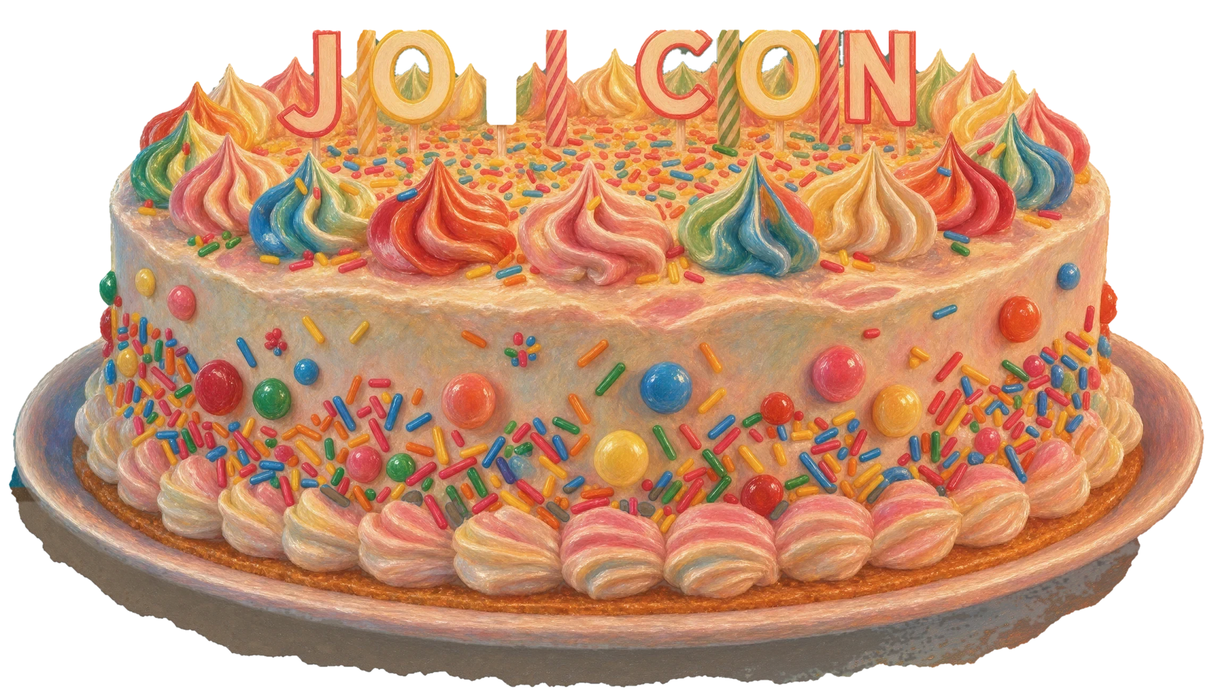
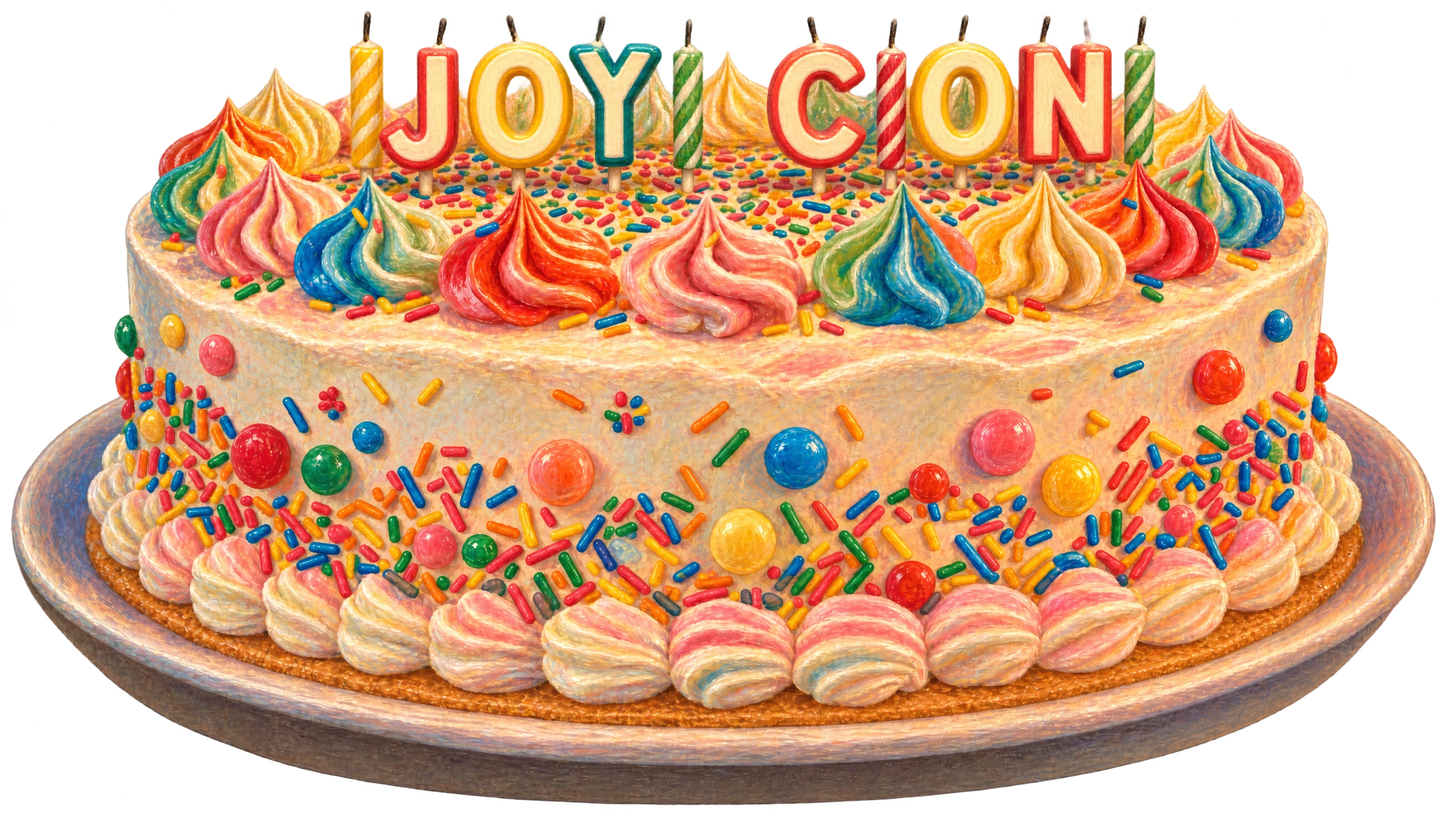
Doors and cake rebuilt from painted element layers
- Doors: bare arch, ivy, and flowers/mushrooms painted in separate steps; each ivy cluster, flower and mushroom is its own swaying layer
- Behind the doors: a plain white glow with an oil-painted burst of rays behind the arch
- Cake: painted bare, then with JOY CON candles, then a new painted flame on each wick
- Footer frame raised over the cake

diff --git a/public/index.html b/public/index.html
@@ -144,10 +144,12 @@
     <div class="wrap">
       <div class="center"><p class="eyebrow">Two days, two doors</p><h2 id="days-h">Fill up. Then give it away.</h2></div>
     </div>
-    <div class="facade2 facade2--wonder" style="aspect-ratio:2000 / 1242">
-      <img class="facade2__base" src="assets/img/doors/base.webp?v=5" alt="" width="2000" height="1242" decoding="async">
-      <a class="door4 door4--sat door4--hinge-left" href="/weekend#saturday" style="left:14.521%;top:10.265%;width:21.514%;height:75.099%" aria-label="Saturday, January 16: Find the joy within. Open the door to see Saturday.">
-        <span class="door4__way" style="--way:url(/assets/img/doors/sat-way.webp?v=2)" aria-hidden="true"><span class="door4__light"></span><span class="door4__sparks"></span></span>
+    <div class="facade2 facade2--wonder" style="aspect-ratio:2698 / 1536">
+      <span class="door-burst door-burst--sat" style="left:13.677%;top:10.352%;width:22.313%;height:73.893%" aria-hidden="true"></span>
+      <span class="door-burst door-burst--sun" style="left:67.235%;top:10.286%;width:22.313%;height:73.958%" aria-hidden="true"></span>
+      <img class="facade2__base" src="assets/img/doors/base.webp?v=6" alt="" width="2698" height="1536" decoding="async">
+      <a class="door4 door4--sat door4--hinge-left" href="/weekend#saturday" style="left:13.677%;top:10.352%;width:22.313%;height:73.893%" aria-label="Saturday, January 16: Find the joy within. Open the door to see Saturday.">
+        <span class="door4__way" style="--way:url(/assets/img/doors/sat-way.webp?v=3)" aria-hidden="true"><span class="door4__light"></span><span class="door4__sparks"></span></span>
         <span class="door4__leaf" style="--leaf:url(/assets/img/doors/sat-leaf.webp?v=2)">
           <span class="door4__content">
             <span class="door4__sign"><span>SAT. 01.16</span></span>
@@ -157,8 +159,8 @@
           <span class="door4__knob" aria-hidden="true"><img src="assets/img/doors/knob.webp" alt="" draggable="false"></span>
         </span>
       </a>
-      <a class="door4 door4--sun door4--hinge-right" href="/weekend#sunday" style="left:69.107%;top:10.596%;width:21.514%;height:74.636%" aria-label="Sunday, January 17: Give it away. Open the door to see Sunday.">
-        <span class="door4__way" style="--way:url(/assets/img/doors/sun-way.webp?v=2)" aria-hidden="true"><span class="door4__light"></span><span class="door4__sparks"></span></span>
+      <a class="door4 door4--sun door4--hinge-right" href="/weekend#sunday" style="left:67.235%;top:10.286%;width:22.313%;height:73.958%" aria-label="Sunday, January 17: Give it away. Open the door to see Sunday.">
+        <span class="door4__way" style="--way:url(/assets/img/doors/sun-way.webp?v=3)" aria-hidden="true"><span class="door4__light"></span><span class="door4__sparks"></span></span>
         <span class="door4__leaf" style="--leaf:url(/assets/img/doors/sun-leaf.webp?v=2)">
           <span class="door4__content">
             <span class="door4__sign"><span>SUN. 01.17</span></span>
@@ -169,22 +171,35 @@
         </span>
       </a>
       <div class="facade2__plants" aria-hidden="true">
-        <span class="plant plant--vine" style="left:4.85%;top:2.174%;width:13.2%;--amp:1.6deg;--dur:5.2s;--delay:-0.00s"><img src="assets/img/doors/plants/sat-top.webp" alt="" draggable="false" decoding="async"></span>
-        <span class="plant plant--vine" style="left:3.7%;top:26.49%;width:12.75%;--amp:1.0deg;--dur:6.4s;--delay:-4.27s"><img src="assets/img/doors/plants/sat-mid.webp" alt="" draggable="false" decoding="async"></span>
-        <span class="plant plant--vine" style="left:0.3%;top:72.383%;width:13.95%;--amp:1.4deg;--dur:4.6s;--delay:-3.54s"><img src="assets/img/doors/plants/sat-low.webp" alt="" draggable="false" decoding="async"></span>
-        <span class="plant plant--vine" style="left:36.65%;top:52.818%;width:8.6%;--amp:1.8deg;--dur:4.2s;--delay:-2.81s"><img src="assets/img/doors/plants/sat-right.webp" alt="" draggable="false" decoding="async"></span>
-        <span class="plant plant--bloom" style="left:8.8%;top:8.535%;width:8.35%;--amp:7deg;--dur:3.6s;--delay:-2.08s"><img src="assets/img/doors/plants/sat-pink.webp" alt="" draggable="false" decoding="async"></span>
-        <span class="plant plant--bloom" style="left:7.2%;top:33.897%;width:6.55%;--amp:6deg;--dur:4.1s;--delay:-1.35s"><img src="assets/img/doors/plants/sat-yellow.webp" alt="" draggable="false" decoding="async"></span>
-        <span class="plant plant--bloom" style="left:4.8%;top:50.644%;width:7.35%;--amp:6deg;--dur:3.8s;--delay:-0.62s"><img src="assets/img/doors/plants/sat-purple.webp" alt="" draggable="false" decoding="async"></span>
-        <span class="plant plant--bloom" style="left:38.15%;top:73.43%;width:4.45%;--amp:8deg;--dur:3.3s;--delay:-4.89s"><img src="assets/img/doors/plants/sat-purpleR.webp" alt="" draggable="false" decoding="async"></span>
-        <span class="plant plant--vine" style="left:59.55%;top:1.691%;width:13.1%;--amp:1.6deg;--dur:5.2s;--delay:-4.51s"><img src="assets/img/doors/plants/sun-top.webp" alt="" draggable="false" decoding="async"></span>
-        <span class="plant plant--vine" style="left:58.05%;top:26.49%;width:12.0%;--amp:1.0deg;--dur:6.4s;--delay:-3.78s"><img src="assets/img/doors/plants/sun-mid.webp" alt="" draggable="false" decoding="async"></span>
-        <span class="plant plant--vine" style="left:55.6%;top:72.383%;width:13.55%;--amp:1.4deg;--dur:4.6s;--delay:-3.05s"><img src="assets/img/doors/plants/sun-low.webp" alt="" draggable="false" decoding="async"></span>
-        <span class="plant plant--vine" style="left:90.5%;top:62.802%;width:9.3%;--amp:1.8deg;--dur:4.2s;--delay:-2.32s"><img src="assets/img/doors/plants/sun-right.webp" alt="" draggable="false" decoding="async"></span>
-        <span class="plant plant--bloom" style="left:63.55%;top:8.615%;width:8.15%;--amp:7deg;--dur:3.6s;--delay:-1.59s"><img src="assets/img/doors/plants/sun-pink.webp" alt="" draggable="false" decoding="async"></span>
-        <span class="plant plant--bloom" style="left:61.8%;top:33.897%;width:6.55%;--amp:6deg;--dur:4.1s;--delay:-0.86s"><img src="assets/img/doors/plants/sun-yellow.webp" alt="" draggable="false" decoding="async"></span>
-        <span class="plant plant--bloom" style="left:60.15%;top:50.322%;width:6.75%;--amp:6deg;--dur:3.8s;--delay:-5.13s"><img src="assets/img/doors/plants/sun-purple.webp" alt="" draggable="false" decoding="async"></span>
-        <span class="plant plant--bloom" style="left:92.85%;top:73.349%;width:4.45%;--amp:8deg;--dur:3.3s;--delay:-4.40s"><img src="assets/img/doors/plants/sun-purpleR.webp" alt="" draggable="false" decoding="async"></span>
+        <span class="plant plant--leaves" style="left:5.3%;top:1.693%;width:14.01%;--amp:1.28deg;--dur:4.25s;--delay:-0.00s"><img src="assets/img/doors/plants/sat-leaves-1.webp?v=2" alt="" draggable="false" decoding="async"></span>
+        <span class="plant plant--leaves" style="left:4.151%;top:37.435%;width:10.452%;--amp:1.49deg;--dur:4.92s;--delay:-0.83s"><img src="assets/img/doors/plants/sat-leaves-2.webp?v=2" alt="" draggable="false" decoding="async"></span>
+        <span class="plant plant--leaves" style="left:3.892%;top:54.753%;width:2.409%;--amp:1.71deg;--dur:5.58s;--delay:-1.66s"><img src="assets/img/doors/plants/sat-leaves-3.webp?v=2" alt="" draggable="false" decoding="async"></span>
+        <span class="plant plant--leaves" style="left:12.157%;top:55.99%;width:2.52%;--amp:1.92deg;--dur:4.75s;--delay:-2.49s"><img src="assets/img/doors/plants/sat-leaves-4.webp?v=2" alt="" draggable="false" decoding="async"></span>
+        <span class="plant plant--leaves" style="left:5.967%;top:62.305%;width:6.597%;--amp:1.39deg;--dur:5.42s;--delay:-3.32s"><img src="assets/img/doors/plants/sat-leaves-5.webp?v=2" alt="" draggable="false" decoding="async"></span>
+        <span class="plant plant--leaves" style="left:36.546%;top:63.151%;width:9.044%;--amp:1.60deg;--dur:4.58s;--delay:-4.15s"><img src="assets/img/doors/plants/sat-leaves-6.webp?v=2" alt="" draggable="false" decoding="async"></span>
+        <span class="plant plant--leaves" style="left:0.852%;top:73.112%;width:12.639%;--amp:1.81deg;--dur:5.25s;--delay:-4.98s"><img src="assets/img/doors/plants/sat-leaves-7.webp?v=2" alt="" draggable="false" decoding="async"></span>
+        <span class="plant plant--flower" style="left:9.229%;top:5.664%;width:2.743%;--amp:4.80deg;--dur:3.27s;--delay:-0.81s"><img src="assets/img/doors/plants/sat-flower-1.webp?v=2" alt="" draggable="false" decoding="async"></span>
+        <span class="plant plant--flower" style="left:8.488%;top:7.552%;width:8.191%;--amp:5.60deg;--dur:3.76s;--delay:-1.64s"><img src="assets/img/doors/plants/sat-flower-2.webp?v=2" alt="" draggable="false" decoding="async"></span>
+        <span class="plant plant--flower" style="left:8.488%;top:34.896%;width:4.781%;--amp:6.40deg;--dur:3.15s;--delay:-2.47s"><img src="assets/img/doors/plants/sat-flower-3.webp?v=2" alt="" draggable="false" decoding="async"></span>
+        <span class="plant plant--flower" style="left:5.523%;top:51.042%;width:6.264%;--amp:7.20deg;--dur:3.64s;--delay:-3.30s"><img src="assets/img/doors/plants/sat-flower-4.webp?v=2" alt="" draggable="false" decoding="async"></span>
+        <span class="plant plant--flower" style="left:38.362%;top:77.344%;width:3.855%;--amp:5.20deg;--dur:4.13s;--delay:-4.13s"><img src="assets/img/doors/plants/sat-flower-5.webp?v=2" alt="" draggable="false" decoding="async"></span>
+        <span class="plant plant--mushroom" style="left:7.376%;top:77.474%;width:5.597%;--amp:2.00deg;--dur:4.18s;--delay:-4.96s"><img src="assets/img/doors/plants/sat-mushroom-1.webp?v=2" alt="" draggable="false" decoding="async"></span>
+        <span class="plant plant--leaves" style="left:66.271%;top:1.432%;width:7.746%;--amp:1.81deg;--dur:5.42s;--delay:-0.79s"><img src="assets/img/doors/plants/sun-leaves-1.webp?v=2" alt="" draggable="false" decoding="async"></span>
+        <span class="plant plant--leaves" style="left:62.861%;top:7.878%;width:2.928%;--amp:1.28deg;--dur:4.58s;--delay:-1.62s"><img src="assets/img/doors/plants/sun-leaves-2.webp?v=2" alt="" draggable="false" decoding="async"></span>
+        <span class="plant plant--leaves" style="left:60.007%;top:12.174%;width:5.041%;--amp:1.49deg;--dur:5.25s;--delay:-2.45s"><img src="assets/img/doors/plants/sun-leaves-3.webp?v=2" alt="" draggable="false" decoding="async"></span>
+        <span class="plant plant--leaves" style="left:63.38%;top:21.029%;width:1.26%;--amp:1.71deg;--dur:4.42s;--delay:-3.28s"><img src="assets/img/doors/plants/sun-leaves-4.webp?v=2" alt="" draggable="false" decoding="async"></span>
+        <span class="plant plant--leaves" style="left:64.27%;top:31.966%;width:3.41%;--amp:1.92deg;--dur:5.08s;--delay:-4.11s"><img src="assets/img/doors/plants/sun-leaves-5.webp?v=2" alt="" draggable="false" decoding="async"></span>
+        <span class="plant plant--leaves" style="left:58.821%;top:38.281%;width:9.377%;--amp:1.39deg;--dur:4.25s;--delay:-4.94s"><img src="assets/img/doors/plants/sun-leaves-6.webp?v=2" alt="" draggable="false" decoding="async"></span>
+        <span class="plant plant--leaves" style="left:57.487%;top:52.279%;width:3.744%;--amp:1.60deg;--dur:4.92s;--delay:-0.77s"><img src="assets/img/doors/plants/sun-leaves-7.webp?v=2" alt="" draggable="false" decoding="async"></span>
+        <span class="plant plant--leaves" style="left:65.678%;top:55.99%;width:2.595%;--amp:1.81deg;--dur:5.58s;--delay:-1.60s"><img src="assets/img/doors/plants/sun-leaves-8.webp?v=2" alt="" draggable="false" decoding="async"></span>
+        <span class="plant plant--leaves" style="left:59.6%;top:62.305%;width:6.635%;--amp:1.28deg;--dur:4.75s;--delay:-2.43s"><img src="assets/img/doors/plants/sun-leaves-9.webp?v=2" alt="" draggable="false" decoding="async"></span>
+        <span class="plant plant--leaves" style="left:90.03%;top:63.151%;width:9.155%;--amp:1.49deg;--dur:5.42s;--delay:-3.26s"><img src="assets/img/doors/plants/sun-leaves-10.webp?v=2" alt="" draggable="false" decoding="async"></span>
+        <span class="plant plant--leaves" style="left:54.522%;top:72.982%;width:12.713%;--amp:1.71deg;--dur:4.58s;--delay:-4.09s"><img src="assets/img/doors/plants/sun-leaves-11.webp?v=2" alt="" draggable="false" decoding="async"></span>
+        <span class="plant plant--flower" style="left:63.306%;top:7.292%;width:8.488%;--amp:7.20deg;--dur:3.89s;--delay:-4.92s"><img src="assets/img/doors/plants/sun-flower-1.webp?v=2" alt="" draggable="false" decoding="async"></span>
+        <span class="plant plant--flower" style="left:61.898%;top:37.044%;width:5.004%;--amp:5.20deg;--dur:3.27s;--delay:-0.75s"><img src="assets/img/doors/plants/sun-flower-2.webp?v=2" alt="" draggable="false" decoding="async"></span>
+        <span class="plant plant--flower" style="left:59.34%;top:51.042%;width:6.338%;--amp:6.00deg;--dur:3.76s;--delay:-1.58s"><img src="assets/img/doors/plants/sun-flower-3.webp?v=2" alt="" draggable="false" decoding="async"></span>
+        <span class="plant plant--flower" style="left:92.179%;top:77.409%;width:3.892%;--amp:6.80deg;--dur:3.15s;--delay:-2.41s"><img src="assets/img/doors/plants/sun-flower-4.webp?v=2" alt="" draggable="false" decoding="async"></span>
+        <span class="plant plant--mushroom" style="left:61.082%;top:77.539%;width:5.597%;--amp:1.60deg;--dur:4.33s;--delay:-3.24s"><img src="assets/img/doors/plants/sun-mushroom-1.webp?v=2" alt="" draggable="false" decoding="async"></span>
       </div>
     </div>
   </section>
@@ -234,7 +249,7 @@
     <div class="cake cake--big" id="cake">
       <div class="cake__window">
         <div class="cake__stage">
-          <img class="cake__art" src="assets/img/cake.webp?v=6" alt="A huge birthday cake with candles that spell JOY CON" width="2282" height="1310" decoding="async">
+          <img class="cake__art" src="assets/img/cake.webp?v=7" alt="A huge birthday cake with candles that spell JOY CON" width="2720" height="1536" decoding="async">
           <div class="cake__candles" id="cake-candles"></div>
         </div>
       </div>

diff --git a/public/assets/site.css b/public/assets/site.css
@@ -2144,3 +2144,45 @@ body{ isolation: isolate; }
 @media (prefers-reduced-motion: reduce){ .joy-bubble, .joy-bubble .joy-bubble__text::before{ animation: none; } }
 /* footer frame sits ~20% of its height higher over the cake */
 .site-footer{ margin-top: calc(-96px - clamp(70px, 10vw, 170px) - clamp(60px, 7vw, 110px)) !important; }
+
+/* door plants, rebuilt as painted elements: ivy clusters sway from their base, flowers nod, mushrooms just wobble */
+.plant--leaves{ transform-origin: 50% 100%; }
+.plant--flower{ transform-origin: 50% 60%; animation-name: bloom-nod; }
+.plant--mushroom{ transform-origin: 50% 100%; animation-name: mush-wobble; }
+@keyframes mush-wobble{ 0%, 100%{ transform: rotate(0deg) scale(1, 1); } 30%{ transform: rotate(var(--amp)) scale(1.01, .99); } 65%{ transform: rotate(calc(var(--amp) * -.6)) scale(.995, 1.005); } }
+
+/* behind the doors: a plain blooming white, an oil-painted burst of light whose rays shoot out past the arch */
+.door4__light::before, .door4__light::after{ display: none !important; }
+.door4__sparks{ display: none !important; }
+.door4__way{ background:
+    url("img/doors/light.webp") 50% 55% / 180% auto no-repeat,
+    radial-gradient(70% 55% at 50% 58%, #ffffff 0%, #fffdf6 45%, #fff6e2 80%, #ffefd2 100%) !important; }
+.door4::before{ left: -90%; right: -90%; top: -40%; bottom: -40%;
+  background: url("img/doors/light.webp") center / contain no-repeat !important;
+  filter: drop-shadow(0 0 14px rgba(255,206,130,.55)) drop-shadow(0 0 36px rgba(255,214,150,.35));
+  transform: scale(.6) rotate(-6deg); transition: opacity .6s ease, transform 1.1s cubic-bezier(.2,.8,.3,1); }
+.door4:focus-visible::before, .door4.is-open::before{ transform: scale(1) rotate(0deg); animation: door-bloom 4.5s ease-in-out .9s infinite; }
+@media (hover: hover){ .door4:hover::before{ transform: scale(1) rotate(0deg); animation: door-bloom 4.5s ease-in-out .9s infinite; } }
+@keyframes door-bloom{ 0%, 100%{ transform: scale(1) rotate(0deg); opacity: 1; } 50%{ transform: scale(1.07) rotate(1.5deg); opacity: .88; } }
+.door4:focus-visible, .door4.is-open{ filter: drop-shadow(0 0 12px rgba(255,248,230,.95)) drop-shadow(0 0 30px rgba(255,214,150,.5)); }
+@media (hover: hover){ .door4:hover{ filter: drop-shadow(0 0 12px rgba(255,248,230,.95)) drop-shadow(0 0 30px rgba(255,214,150,.5)); } }
+@media (prefers-reduced-motion: reduce){ .door4::before{ animation: none !important; } }
+/* the burst lives behind the arch painting, so the rays fan out around the stones instead of washing them out */
+.door4::before{ display: none !important; }
+.door-burst{ position: absolute; pointer-events: none; opacity: 0; transform: scale(.55) rotate(-8deg);
+  transition: opacity .6s ease, transform 1.1s cubic-bezier(.2,.8,.3,1); }
+.door-burst::before{ content: ""; position: absolute; left: -95%; right: -95%; top: -42%; bottom: -42%;
+  background: url("img/doors/light.webp") 50% 50% / contain no-repeat;
+  filter: drop-shadow(0 0 10px rgba(255,200,120,.6)) drop-shadow(0 0 28px rgba(255,210,140,.4)); }
+.facade2:has(.door4--sat:is(.is-open, :focus-visible)) .door-burst--sat,
+.facade2:has(.door4--sun:is(.is-open, :focus-visible)) .door-burst--sun{ opacity: 1; transform: scale(1) rotate(0deg); animation: door-bloom 4.5s ease-in-out .9s infinite; }
+@media (hover: hover){
+  .facade2:has(.door4--sat:hover) .door-burst--sat, .facade2:has(.door4--sun:hover) .door-burst--sun{ opacity: 1; transform: scale(1) rotate(0deg); animation: door-bloom 4.5s ease-in-out .9s infinite; }
+}
+@media (prefers-reduced-motion: reduce){ .door-burst{ animation: none !important; } }
+.door-burst::before{ filter: drop-shadow(0 0 4px rgba(255,186,96,.75)) drop-shadow(0 0 16px rgba(255,196,110,.55)) drop-shadow(0 0 40px rgba(255,214,150,.4)); }
+
+/* cake: candles are painted into the cake; each wick tip carries a painted flame */
+.cake--big .candle--wick{ width: 0; height: 0; }
+.cake--big .candle--wick .candle__light{ left: 0; top: 0; width: clamp(14px, 1.75vw, 30px); transform: translate(-50%, -97%); }
+.cake--big .candle--wick .candle__flame img{ filter: drop-shadow(0 0 6px rgba(255,190,90,.65)) drop-shadow(0 0 16px rgba(255,170,70,.35)); }

diff --git a/public/assets/cake.js b/public/assets/cake.js
@@ -6,25 +6,25 @@
   if (!stage || !box) return;
   var reduced = matchMedia("(prefers-reduced-motion: reduce)").matches;
 
-  /* Cut-out candles; left/top/width are % of the cake art; wick is % of the candle. */
+  /* The candles are painted into the cake (cake.webp); these are the tips of their wicks, as % of the art. Each gets a painted flame. */
   var CANDLES = [
-    {id:"j",         file:"candle-j.webp",         left:23.1376, top:3.9695, width:4.9080, z:539, wick:71.43},
-    {id:"stripe-y",  file:"candle-stripe-y.webp",  left:29.2287, top:1.0687, width:1.7967, z:531, wick:48.78},
-    {id:"o1",        file:"candle-o1.webp",        left:30.8501, top:3.4351, width:6.5732, z:509, wick:47.33},
-    {id:"y",         file:"candle-y.webp",         left:38.2121, top:2.5954, width:4.9518, z:521, wick:18.58},
-    {id:"stripe-p1", file:"candle-stripe-p1.webp", left:45.0044, top:1.0687, width:1.7090, z:523, wick:48.72},
-    {id:"c",         file:"candle-c.webp",         left:52.4540, top:3.2061, width:6.2664, z:508, wick:55.94},
-    {id:"stripe-g",  file:"candle-stripe-g.webp",  left:59.5530, top:0.9160, width:1.7090, z:538, wick:48.72},
-    {id:"o2",        file:"candle-o2.webp",        left:60.6924, top:3.2824, width:6.8799, z:509, wick:49.68},
-    {id:"stripe-p2", file:"candle-stripe-p2.webp", left:69.9825, top:1.2214, width:1.7090, z:528, wick:48.72},
-    {id:"n",         file:"candle-n.webp",         left:71.1656, top:3.8931, width:4.2068, z:531, wick:73.96}
+    {id:"w1", left:25.4044, top:1.5625},
+    {id:"w2", left:30.6250, top:2.4089},
+    {id:"w3", left:35.1471, top:2.0833},
+    {id:"w4", left:41.7279, top:2.2135},
+    {id:"w5", left:47.6838, top:2.5391},
+    {id:"w6", left:56.0294, top:2.2786},
+    {id:"w7", left:61.8382, top:2.5391},
+    {id:"w8", left:66.8382, top:2.0182},
+    {id:"w9", left:72.4632, top:2.1484},
+    {id:"w10", left:75.0735, top:2.7344},
+    {id:"w11", left:79.0441, top:2.2135}
   ];
 
   box.innerHTML = CANDLES.map(function(c, i){
-    return '<span class="candle candle--cut" style="left:' + c.left + '%;top:' + c.top + '%;width:' + c.width + '%;z-index:' + c.z + '">' +
-      '<img class="candle__stick" src="assets/img/candles/' + c.file + '?v=2" alt="" draggable="false">' +
-      '<span class="candle__light" style="left:' + c.wick + '%;--d:' + (-i * .23).toFixed(2) + 's">' +
-        '<span class="candle__flame"><img src="assets/img/flame.webp" alt="" draggable="false"></span>' +
+    return '<span class="candle candle--cut candle--wick" style="left:' + c.left + '%;top:' + c.top + '%">' +
+      '<span class="candle__light" style="--d:' + (-i * .23).toFixed(2) + 's">' +
+        '<span class="candle__flame"><img src="assets/img/flame.webp?v=3" alt="" draggable="false"></span>' +
         '<span class="candle__smoke"></span></span></span>';
   }).join("");
 
